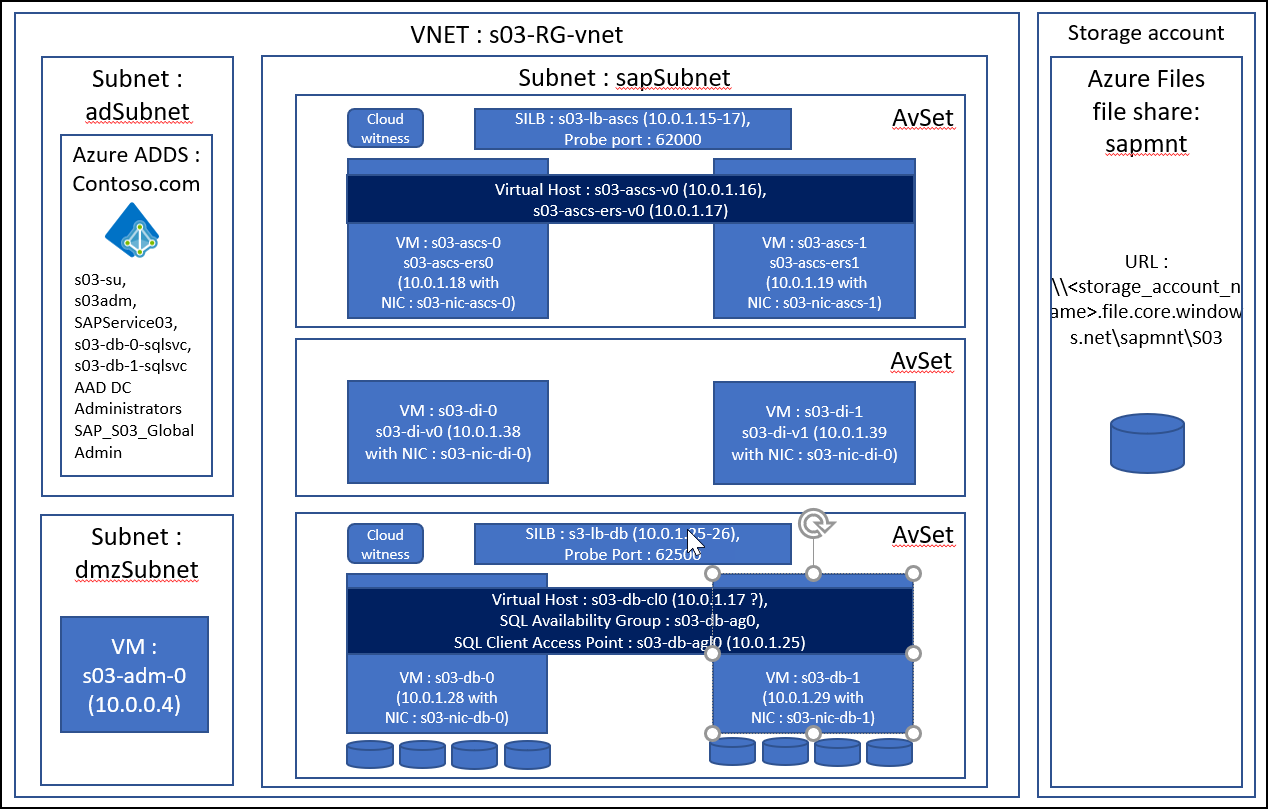
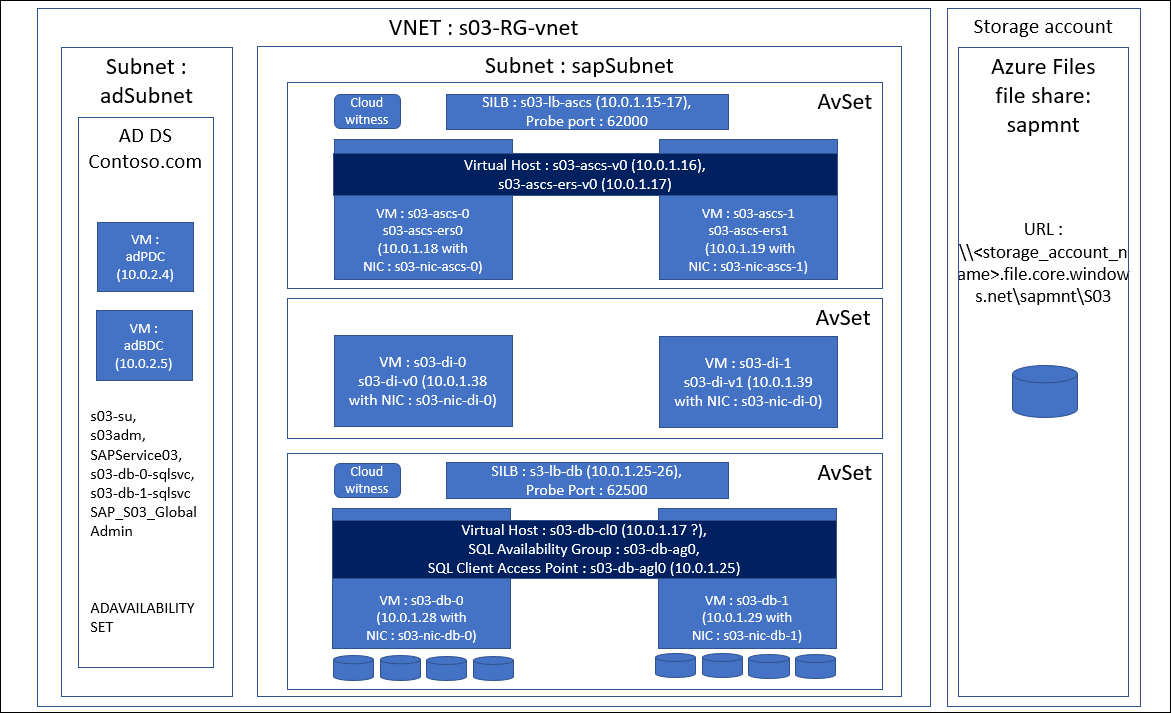
HoL update tasks 1-3

Changed region(s): [[0.0, 0.0, 1.0, 1.0]]

diff --git a/Hands-on lab/HOL step-by step - SAP NetWeaver on Azure.md b/Hands-on lab/HOL step-by step - SAP NetWeaver on Azure.md
@@ -13,8 +13,6 @@ March 2020
 </div>
 
 
-
-
 Information in this document, including URL and other Internet Web site references, is subject to change without notice. Unless otherwise noted, the example companies, organizations, products, domain names, e-mail addresses, logos, people, places, and events depicted herein are fictitious, and no association with any real company, organization, product, domain name, e-mail address, logo, person, place or event is intended or should be inferred. Complying with all applicable copyright laws is the responsibility of the user. Without limiting the rights under copyright, no part of this document may be reproduced, stored in or introduced into a retrieval system, or transmitted in any form or by any means (electronic, mechanical, photocopying, recording, or otherwise), or for any purpose, without the express written permission of Microsoft Corporation.
 
 Microsoft may have patents, patent applications, trademarks, copyrights, or other intellectual property rights covering subject matter in this document. Except as expressly provided in any written license agreement from Microsoft, the furnishing of this document does not give you any license to these patents, trademarks, copyrights, or other intellectual property.
@@ -79,7 +77,7 @@ Microsoft and the trademarks listed at <https://www.microsoft.com/en-us/legal/in
 
 ## Abstract and learning objectives 
 
-In this hands-on lab you will setup and configure SAP NetWeaver by using a combination of Azure Infrastructure as a Service (IaaS) and Platform as a Service (PaaS) components. You will setup identity management by using Active Directory Domain Services (AD DS) integrated with Azure Active Directory (Azure AD), file sharing by using Azure Files service, NetWeaver application and database tiers by using Azure virtual machines (VMs) and integrate them with Active Directory. You will then setup high-availability for SAP ASCS components hosted on Azure VMs by configuring failover clustering. Finally, you will implement the database tier by using Always On Availability Groups and configure the NetWeaver application servers for redundancy.
+In this hands-on lab you will setup and configure SAP NetWeaver by using a combination of Azure Infrastructure as a Service (IaaS) and Platform as a Service (PaaS) components. You will setup identity management by using Active Directory Domain Services (AD DS) integrated with Azure Active Directory (Azure AD), file sharing by using Azure Files service, as well as deploy NetWeaver application and database tiers by using Azure virtual machines (VMs). You will then setup highly available SAP ASCS components hosted on Azure VMs by configuring failover clustering, implement the database tier by using SQL Server 2019 Always On Availability Group, and provision NetWeaver Primary and Secondary Application Servers in a redundant configuration.
 
 As you step through the hands-on-lab, you will learn how to optimize deployment of SAP on Azure, including configuration of SAP NetWeaver ASCS servers, SAP NetWeaver database servers, and SAP NetWeaver Application servers.
 
@@ -107,7 +105,7 @@ From the architectural standpoint, the deployment will consist of the following 
 
     -   Additional Application Server (AAS)
 
--   SAP Database layer -- two servers hosting separate instances of SQL Server 2017 configured as nodes of a SQL Server Always-On Availability Group cluster
+-   SAP Database layer -- two servers hosting separate instances of SQL Server 2019 configured as nodes of a SQL Server Always-On Availability Group cluster
 
     -   Failover Clustering will rely on Cloud Witness-based quorum
 
@@ -115,20 +113,18 @@ From the architectural standpoint, the deployment will consist of the following 
 
 To facilitate high-availability on the platform level, each pair of Azure virtual machines (VMs) in each layer will belong to the same managed availability set.
 
-The solution will also include a Windows Server 2019 Azure VM that will serve the role of a jumpbox server.
-
-![Solution architecture to setup SAP NetWeaver on Azure consisting of Authentication layer (with two Active Directory domain controllers), shared storage (two servers configured as a Storage Spaces Direct cluster), SAP ASCS layer (with two servers configured as members of a two-node Windows Failover Clustering cluster), SAP Application instances layer (with two SAP application servers), SAP Database layer (two servers hosting separate instances of SQL Server 2017 configured as nodes of a SQL Server Always-On Availability Group cluster).](images/Hands-onlabunguided-SAPonAzureimages/media/image1.png  "Solution architecture diagram")
+![Solution architecture to setup SAP NetWeaver on Azure consisting of the authentication layer (with two Active Directory domain controllers), highly available sapmnt share (hosted by using Azure Files service), SAP ASCS layer (with two servers configured as members of a two-node Windows Failover Clustering cluster), SAP Application instances layer (with two SAP application servers), SAP Database layer (two servers hosting separate instances of SQL Server 2019 configured as nodes of a SQL Server Always-On Availability Group cluster).](images/Hands-onlabunguided-SAPonAzureimages/media/image1.png  "Solution architecture diagram")
 
 ## Exercise 1: Deploy the SAP on Azure infrastructure components 
 
 Duration: 175 minutes
 
-In this exercise, you will deploy Azure infrastructure prerequisites for implementing SAP NetWeaver on Azure Virtual Machines (VMs). This will include creating such resources as an Azure Virtual Network, Azure VMs and Azure load balancers. In addition, you will implement Azure AD DS, and subsequently, join all Azure VMs to the same Active Directory domain.
+In this exercise, you will deploy Azure infrastructure prerequisites for implementing SAP NetWeaver on Azure Virtual Machines (VMs). This will include creating such resources as an Azure Virtual Network, Azure VMs and Azure load balancers. In addition, you will create an Active Directory (AD) environment, integrate it with Azure Active Directory (Azure AD), and configure AD-based authentication of an Azure Storage acocunt that will host the sapmnt file share.
 
 
 ### Task 1: Deploy Active Directory domain controller VMs
 
-In this task, you will deploy two Azure VMs hosting Active Directory domain controllers of the domain contoso.com by using an Azure Resource Manager QuickStart template from GitHub available at <https://github.com/Azure/azure-quickstart-templates/tree/master/active-directory-new-domain-ha-2-dc>. You will use the following settings during deployment:
+In this task, you will deploy two Azure VMs hosting Active Directory domain controllers in the single-domain forest contoso.com by using an Azure Resource Manager QuickStart template from GitHub available at <https://github.com/Azure/azure-quickstart-templates/tree/master/active-directory-new-domain-ha-2-dc>. You will use the following settings during deployment:
 
 -   Resource group name: **s03-RG**
 
@@ -138,19 +134,19 @@ In this task, you will deploy two Azure VMs hosting Active Directory domain cont
 
 -   Domain Name: **contoso.com**
 
-1.  From the lab computer, start a Web browser, and navigate to the Azure portal at <https://portal.azure.com>
+1.  From the lab computer, start a web browser, and navigate to the Azure portal at <https://portal.azure.com>
 
-1.  When prompted, sign in to the Azure subscription you will be using in this lab
+1.  When prompted, sign in to the Azure subscription you will be using in this lab.
 
-1.  From the lab computer, open another the in the web browser window and navigate to <https://github.com/Azure/azure-quickstart-templates/tree/master/active-directory-new-domain-ha-2-dc>
+1.  From the lab computer, open another web browser window and navigate to <https://github.com/Azure/azure-quickstart-templates/tree/master/active-directory-new-domain-ha-2-dc>
 
-1.  On the **Create 2 new Windows VMs, create a new AD Forest, Domain and 2 DCs in an availability set** page, and select **Deploy to Azure**
+1.  On the **Create 2 new Windows VMs, create a new AD Forest, Domain and 2 DCs in an availability set** page, select **Deploy to Azure**
 
-1.  The Web browser window should automatically be redirected to the Azure portal, and display the **Create a new AD Domain with 2 Domain Controllers** blade.
+1.  The Web browser will automatically open the Azure portal and display the **Create a new AD Domain with 2 Domain Controllers** blade.
 
 1.  On the **Create a new AD Domain with 2 Domain Controllers** blade, select **Edit template**.
 
-1.  On the **Edit template**, scroll down to the variables section and modify the values of the following variables and select **Save**:
+1.  On the **Edit template**, scroll down to the variables section, modify the values of the following variables, and select **Save**:
 
     -   adVMSize: **Standard\_D4s\_v3**
 
@@ -174,7 +170,7 @@ In this task, you will deploy two Azure VMs hosting Active Directory domain cont
 
     -   Resource group: **(New) s03-RG**
 
-    -   Location: the name of the Azure subscription you are using for this lab
+    -   Location: the name of the Azure region you are using for this lab
 
     -   Admin Username: **demouser**
 
@@ -188,11 +184,11 @@ In this task, you will deploy two Azure VMs hosting Active Directory domain cont
 
     -   Bdc RDP Port: **13389**
 
-    -   \_artifacts Location: **https:////raw.githubusercontent.com//Azure//azure-quickstart-templates//master//active-directory-new-domain-ha-2-dc//**
+    -   \_artifacts Location: **https://raw.githubusercontent.com/Azure/azure-quickstart-templates/master/active-directory-new-domain-ha-2-dc/**
 
     -   \_artifacts Location Sas Token: the default value
 
-    > **Note**: Ensure that the value of the **\_artifacts Location** variable includes the trailing forward slash **//**.
+    > **Note**: Ensure that the value of the **\_artifacts Location** variable includes the trailing forward slash **/**.
 
 1.  Select the checkbox labeled **I agree to the terms and conditions stated above**, and select **Purchase**
 
@@ -209,7 +205,7 @@ In this task, you will add a subnet to the Azure virtual network, which will hos
 
 -   Virtual network IP address space: **10.0.0.0/22**
 
--   Subnets: 
+-   Subnet: 
 
     -   Subnet name: **sapSubnet**
 
@@ -274,15 +270,15 @@ In this task, you will deploy Azure VMs that will be hosting your SAP implementa
 
     ![Screenshot of the Edit template blade. Under Variables, sizes is selected.](images/Hands-onlabstep-bystep-SAPonAzureimages/media/image14.png)
 
-1.  In the editor window, navigate to the **Demo** section, scroll down to the **SQL** section, and modify the values of the **dbvmSize** key per the following screenshot:
+1.  In the editor window, navigate to the **Demo** section, scroll down to the **SQL** section, and modify the values of the **dbvmSize** key as per the following screenshot:
 
     ![Screenshot of the editor windows with the previously mentioned keys displaying.](images/Hands-onlabstep-bystep-SAPonAzureimages/media/image15.png)
 
-1.  In the editor window, navigate to the **osType** parameter subsection of the **Parameters** section. Add an entry for **Windows Server 2019** and configure it as the default value of the parameter, as per the following screenshot:
+1.  In the editor window, navigate to the **osType** parameter subsection of the **Parameters** section. Add an entry for **Windows Server 2019** and configure it as the default value of the parameter as per the following screenshot:
 
     ![Screenshot of the editor windows with the Windows Server 2019 value of the osType parameter.](images/Hands-onlabstep-bystep-SAPonAzureimages/media/image15b.png)
 
-1.  In the editor window, navigate to the **images** variable of the **Variables** section. Add an entry for **Windows Server 2019**, as per the following screenshot:
+1.  In the editor window, navigate to the **images** variable of the **Variables** section. Add an entry for **Windows Server 2019** as per the following screenshot:
 
     ![Screenshot of the editor windows with the Windows Server 2019 variable.](images/Hands-onlabstep-bystep-SAPonAzureimages/media/image15c.png)
 
@@ -341,8 +337,6 @@ In this task, you will deploy Azure VMs that will be hosting your SAP implementa
     ![Screenshot of the Terms and Conditions page.](images/Hands-onlabstep-bystep-SAPonAzureimages/media/image9.png)
 
 1.  Wait for the deployment to complete. This should take no more than 10 minutes. You can verify the deployment completed successfully by viewing the **Deployments** entry of the s03-RG resource group blade in the Azure portal.
-
-    > **Note**: Disregard any custom script extension errors generated during the template deployment.
 
     ![The s03-RG resource group blade displays in the Azure Portal.](images/Hands-onlabstep-bystep-SAPonAzureimages/media/image18.png)
 

diff --git a/Hands-on lab/Before the hands-on lab - SAP NetWeaver on Azure.md b/Hands-on lab/Before the hands-on lab - SAP NetWeaver on Azure.md
@@ -52,6 +52,8 @@ Microsoft and the trademarks listed at <https://www.microsoft.com/en-us/legal/in
 
     -   APP VMs -- 2 x D4s\_v3: 2 x 4 vCPUs = 8 vCPUs
 
+   > **Note**: The Azure region you select must support Active Directory authentication for Azure File shares. For the listing of regions supporting this functionality, refer to <https://docs.microsoft.com/en-us/azure/storage/files/storage-files-identity-auth-active-directory-enable>.
+
    > **Note**: The lab VM does not require locally installed software. Az PowerShell tasks are run in Cloud Shell in the Azure portal and directly from Azure VMs deployed throughout the course of the lab. If you decide to run some of these tasks from the lab computer, install Az PowerShell (module version 2.1.0 or newer).
 
 -   Access to SAP binaries described in task 5 of this document
